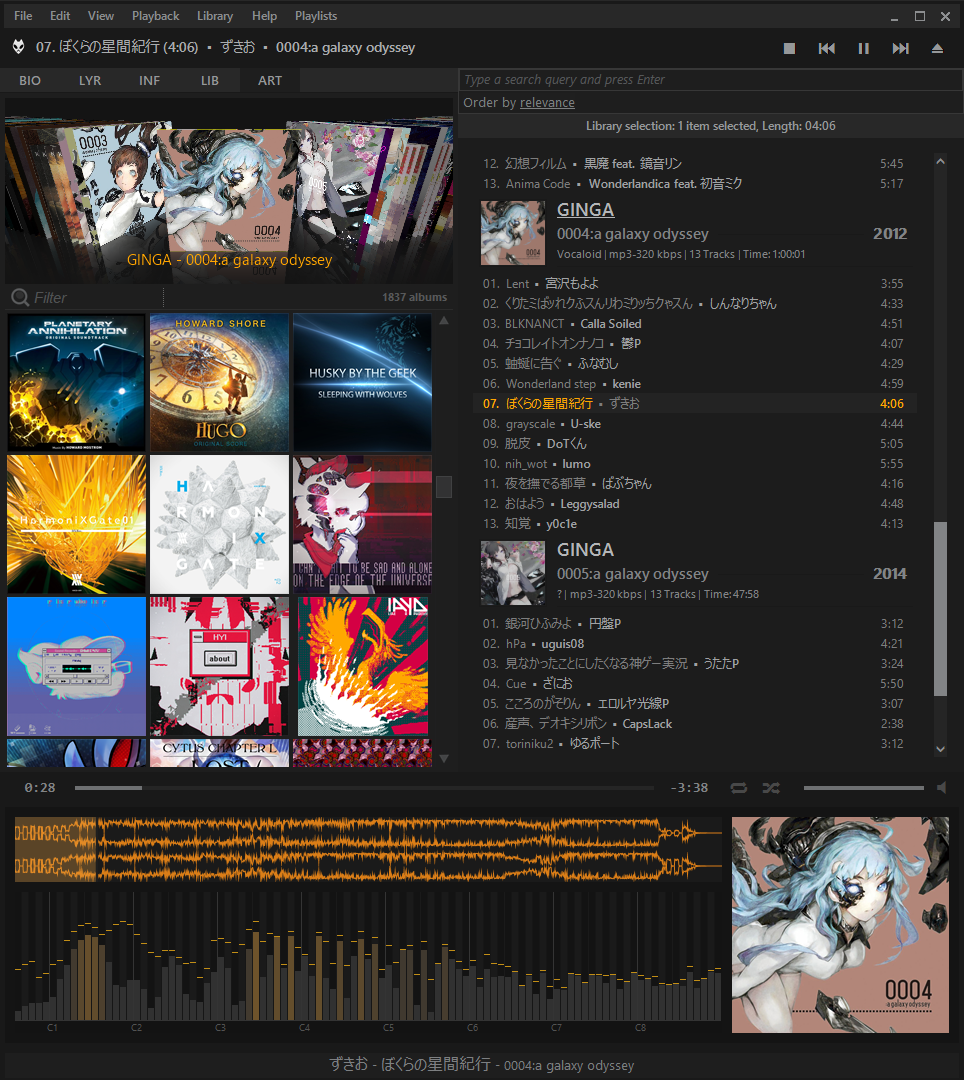
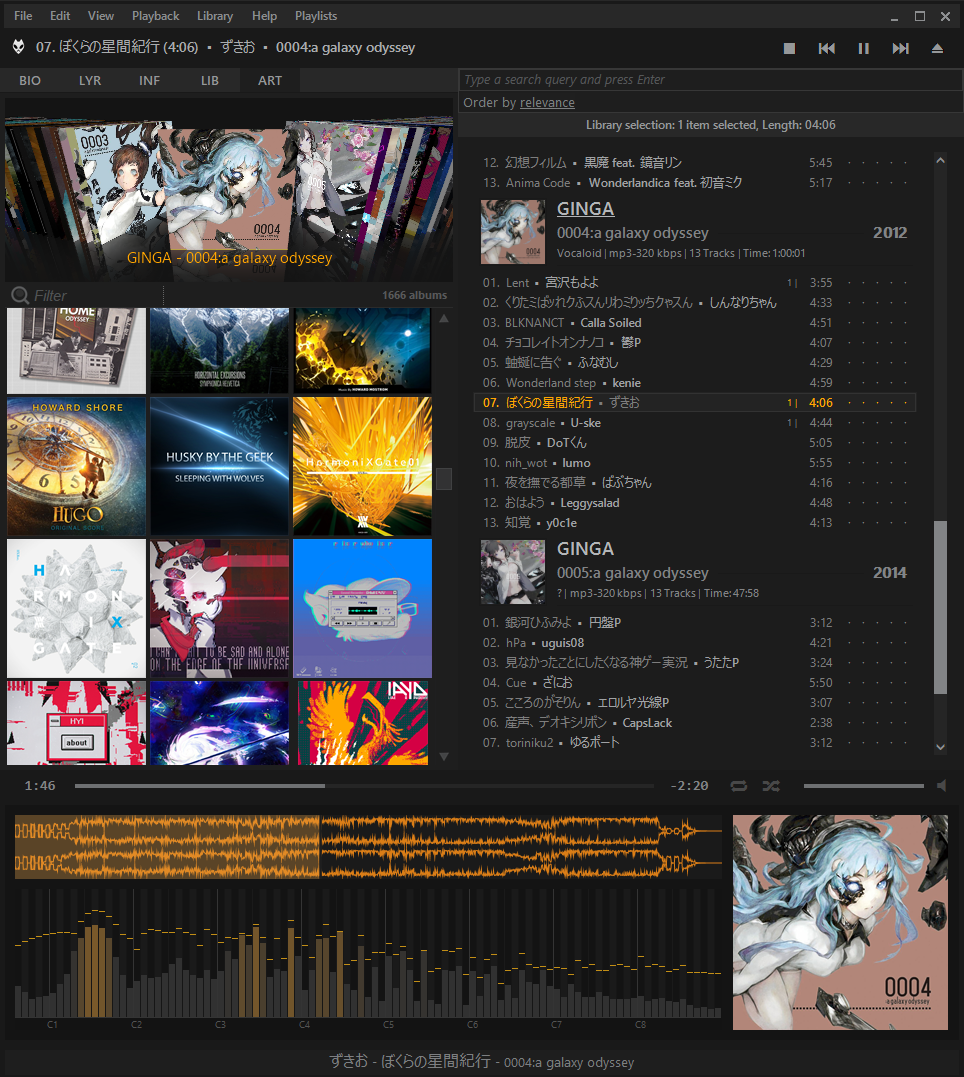
Add rating and play widgets

diff --git a/README.md b/README.md
@@ -9,6 +9,7 @@ panels, plugins and quality of life modules. The ultimate Foobar2000 theme.
 *What's included?*
 
 - Clean and dark interface with simple navigation.
+- Simple rating and number of plays view.
 - Searching and playing of YouTube videos.
 - Cover art viewer and cover flow panel.
 - Real time synced lyric viewer panel.
@@ -20,6 +21,9 @@ panels, plugins and quality of life modules. The ultimate Foobar2000 theme.
 If at any point you make changes to the interface and wish to reset: There's
 an included layout file in the root directory called *Nekorox.fcl* which you
 can load to reset everything to the way it was intended.
+
+Once you have completed the steps below. Make sure to install the fonts
+included in the *fonts* directory.
 
 ### Standard ###
 
